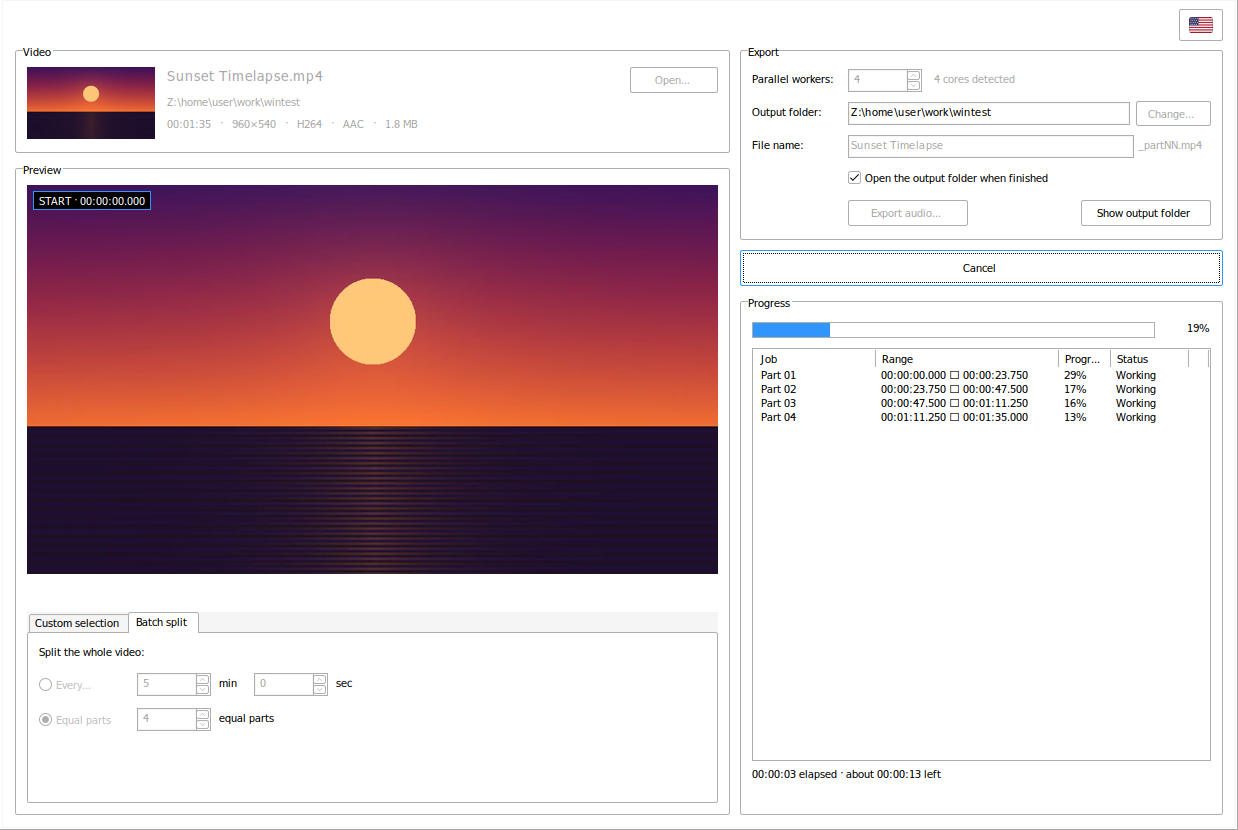
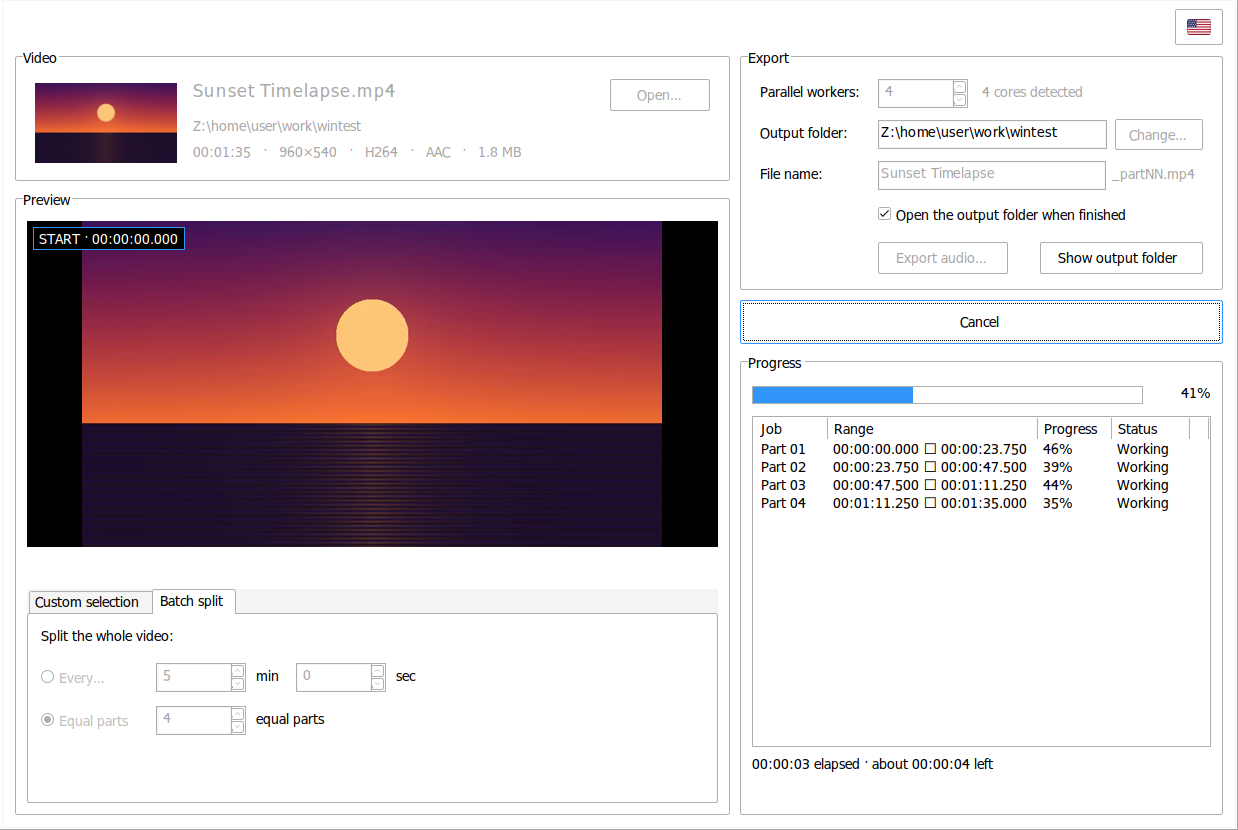
Windows: larger fonts, roomier Video/Export groups, plain range slider
- UI text is the system message font enlarged by 25%; row, button and
  caption heights grow to match
- 20 px inner side padding in the Video and Export group boxes
- Drop the blue selection band and blue clip-length label on the slider
- Rebalance the job list columns; refresh the Windows screenshots

Claude-Session: https://claude.ai/code/session_01Uap5cQj8DX7AT7JrzHpMSY

diff --git a/windows/src/main.rs b/windows/src/main.rs
@@ -147,8 +147,8 @@ fn main() {
             WS_OVERLAPPEDWINDOW,
             CW_USEDEFAULT,
             CW_USEDEFAULT,
-            (1120.0 * s) as i32,
-            (780.0 * s) as i32,
+            (1240.0 * s) as i32,
+            (900.0 * s) as i32,
             None,
             None,
             Some(hinst),
@@ -246,11 +246,16 @@ fn button(p: HWND, id: usize, style: i32) -> HWND {
     ctl(p, w!("BUTTON"), "", WS_TABSTOP.0 | style as u32, NONE, id)
 }
 
+/// How much larger than the system message font the UI text is.
+const FONT_SCALE: f32 = 1.25;
+
 fn make_fonts(dpi: u32) -> (HFONT, HFONT) {
     unsafe {
         let mut ncm = NONCLIENTMETRICSW { cbSize: std::mem::size_of::<NONCLIENTMETRICSW>() as u32, ..Default::default() };
         let _ = SystemParametersInfoForDpi(SPI_GETNONCLIENTMETRICS.0, ncm.cbSize, Some(&mut ncm as *mut _ as _), 0, dpi);
+        // The system message font (Segoe UI 9 pt), enlarged for readability.
         let mut lf = ncm.lfMessageFont;
+        lf.lfHeight = (lf.lfHeight as f32 * FONT_SCALE).round() as i32;
         let font = CreateFontIndirectW(&lf);
         lf.lfWeight = 600;
         lf.lfHeight = (lf.lfHeight as f32 * 1.3).round() as i32;
@@ -544,54 +549,62 @@ pub fn layout(a: &mut App) {
     let (cw, ch) = (rc.right as f32 / s, rc.bottom as f32 / s);
     let tw = |t: &str| text_width(a, t) as f32 / s;
     let txt = |h: HWND| text_of(h);
-    const M: f32 = 12.0;
-    const G: f32 = 10.0;
-    const EH: f32 = 23.0; // edit / label row height
-    const BH: f32 = 26.0; // button height
+    const M: f32 = 12.0; // window margin
+    const G: f32 = 10.0; // gap between groups
+    const EH: f32 = 29.0; // edit / radio row height
+    const BH: f32 = 32.0; // button height
+    const LH: f32 = 22.0; // label height
+    const LO: f32 = (EH - LH) / 2.0; // label offset that centres it on an edit row
+    const CAP: f32 = 30.0; // group box caption → first row
+    const PAD: f32 = 12.0; // group box inner padding
+    const WIDE_PAD: f32 = 20.0; // inner side padding of the Video and Export groups
     let avail = cw - 2.0 * M;
-    let right_w = (avail * 0.4).clamp(380.0, 500.0);
+    let right_w = (avail * 0.4).clamp(420.0, 560.0);
     let left_w = avail - G - right_w;
     let (lx, rx) = (M, M + left_w + G);
 
     // ── Language flag, top right ──
-    place(u.lang_btn, cw - M - 44.0, 8.0, 44.0, 32.0, s);
-    let top = 8.0 + 32.0 + 4.0;
+    place(u.lang_btn, cw - M - 48.0, 8.0, 48.0, 36.0, s);
+    let top = 8.0 + 36.0 + 4.0;
 
     // ── Video ──
-    let vh = 108.0;
+    let vh = CAP + 88.0 + 14.0;
     place(u.video_grp, lx, top, left_w, vh, s);
-    place(u.thumb, lx + 12.0, top + 22.0, 128.0, 72.0, s);
-    let ow = tw(&txt(u.open_btn)) + 32.0;
-    place(u.open_btn, lx + left_w - 12.0 - ow.max(88.0), top + 22.0, ow.max(88.0), BH, s);
-    let tx = lx + 152.0;
-    let tww = left_w - 164.0 - ow.max(88.0) - 12.0;
-    place(u.drop_title, tx, top + 22.0, tww, 26.0, s);
-    place(u.drop_sub, tx, top + 50.0, tww + ow.max(88.0) + 12.0, 18.0, s);
-    place(u.drop_info, tx, top + 72.0, tww + ow.max(88.0) + 12.0, 18.0, s);
+    let vx = lx + WIDE_PAD;
+    let vw = left_w - 2.0 * WIDE_PAD;
+    let ty0 = top + CAP;
+    place(u.thumb, vx, ty0 + 4.0, 142.0, 80.0, s);
+    let ow = (tw(&txt(u.open_btn)) + 36.0).max(100.0);
+    place(u.open_btn, vx + vw - ow, ty0, ow, BH, s);
+    let tx = vx + 142.0 + 16.0;
+    let full = vx + vw - tx;
+    place(u.drop_title, tx, ty0, full - ow - 12.0, 32.0, s);
+    place(u.drop_sub, tx, ty0 + 38.0, full, LH, s);
+    place(u.drop_info, tx, ty0 + 64.0, full, LH, s);
 
     // ── Preview ──
     let py = top + vh + G;
     let ph = ch - M - py;
     place(u.preview_grp, lx, py, left_w, ph, s);
-    let ix = lx + 12.0;
-    let iw = left_w - 24.0;
-    let itop = py + 22.0;
-    let ibot = py + ph - 12.0;
-    let tab_h = 172.0;
-    let frame_h = (iw * 9.0 / 16.0).min(ibot - itop - 30.0 - G - tab_h).max(120.0);
+    let ix = lx + PAD;
+    let iw = left_w - 2.0 * PAD;
+    let itop = py + CAP;
+    let ibot = py + ph - PAD;
+    let tab_h = 214.0;
+    let frame_h = (iw * 9.0 / 16.0).min(ibot - itop - 32.0 - G - tab_h).max(120.0);
     place(u.preview, ix, itop, iw, frame_h, s);
     let fy = itop + frame_h + 6.0;
-    let sw = tw(&txt(u.show_start)) + 26.0;
-    let ew = tw(&txt(u.show_end)) + 26.0;
-    place(u.show_end, ix + iw - ew, fy, ew, 22.0, s);
-    place(u.show_start, ix + iw - ew - 8.0 - sw, fy, sw, 22.0, s);
-    place(u.frame_lbl, ix, fy + 3.0, (iw - ew - sw - 16.0).max(10.0), 18.0, s);
+    let sw = tw(&txt(u.show_start)) + 30.0;
+    let ew = tw(&txt(u.show_end)) + 30.0;
+    place(u.show_end, ix + iw - ew, fy, ew, 26.0, s);
+    place(u.show_start, ix + iw - ew - 10.0 - sw, fy, sw, 26.0, s);
+    place(u.frame_lbl, ix, fy + 2.0, (iw - ew - sw - 20.0).max(10.0), LH, s);
     let custom = a.mode == Mode::Custom;
     for h in [u.frame_lbl, u.show_start, u.show_end] {
         show(h, custom);
     }
-    let ty = fy + 22.0 + G;
-    let th = (ibot - ty).max(140.0);
+    let ty = fy + 26.0 + G;
+    let th = (ibot - ty).max(170.0);
     place(u.tab, ix, ty, iw, th, s);
     // The tab's page area.
     let mut page = RECT {
@@ -604,35 +617,36 @@ pub fn layout(a: &mut App) {
         SendMessageW(u.tab, TCM_SETCURSEL, Some(WPARAM(if custom { 0 } else { 1 })), None);
         SendMessageW(u.tab, TCM_ADJUSTRECT, Some(WPARAM(0)), Some(LPARAM(&mut page as *mut _ as isize)));
     }
-    let (px, pyy, pw) = (page.left as f32 / s + 8.0, page.top as f32 / s + 8.0, (page.right - page.left) as f32 / s - 16.0);
+    let (px, pyy, pw) = (page.left as f32 / s + 10.0, page.top as f32 / s + 8.0, (page.right - page.left) as f32 / s - 20.0);
     // custom page
-    place(u.timeline, px, pyy, pw, 62.0, s);
-    let ly = pyy + 62.0 + 8.0;
-    let tcol = 140.0f32.max(tw(&txt(u.start_lbl)) + 4.0).max(tw(&txt(u.end_lbl)) + 4.0);
-    place(u.start_lbl, px, ly, tcol, 18.0, s);
-    place(u.edits[E_START], px, ly + 20.0, 130.0, EH, s);
-    place(u.end_lbl, px + tcol + 16.0, ly, tcol, 18.0, s);
-    place(u.edits[E_END], px + tcol + 16.0, ly + 20.0, 130.0, EH, s);
+    place(u.timeline, px, pyy, pw, 70.0, s);
+    let ly = pyy + 70.0 + 8.0;
+    let time_w: f32 = 170.0;
+    let tcol = time_w.max(tw(&txt(u.start_lbl)) + 4.0).max(tw(&txt(u.end_lbl)) + 4.0);
+    place(u.start_lbl, px, ly, tcol, LH, s);
+    place(u.edits[E_START], px, ly + LH + 4.0, time_w, EH, s);
+    place(u.end_lbl, px + tcol + 20.0, ly, tcol, LH, s);
+    place(u.edits[E_END], px + tcol + 20.0, ly + LH + 4.0, time_w, EH, s);
     for h in [u.timeline, u.start_lbl, u.end_lbl, u.edits[E_START], u.edits[E_END]] {
         show(h, custom);
     }
     // batch page
-    place(u.batch_head, px, pyy + 4.0, pw, 18.0, s);
-    let rw = (tw(&txt(u.every_radio)).max(tw(&txt(u.parts_radio))) + 28.0).max(90.0);
-    let r1 = pyy + 32.0;
-    let r2 = r1 + EH + 12.0;
+    place(u.batch_head, px, pyy + 4.0, pw, LH, s);
+    let rw = (tw(&txt(u.every_radio)).max(tw(&txt(u.parts_radio))) + 32.0).max(100.0);
+    let r1 = pyy + LH + 18.0;
+    let r2 = r1 + EH + 14.0;
     place(u.every_radio, px, r1, rw, EH, s);
     place(u.parts_radio, px, r2, rw, EH, s);
-    let sx = px + rw + 8.0;
-    let spin_w = 76.0;
+    let sx = px + rw + 10.0;
+    let spin_w = 92.0;
     place(u.edits[E_MIN], sx, r1, spin_w, EH, s);
     let mw = tw(&txt(u.min_lbl)) + 4.0;
-    place(u.min_lbl, sx + spin_w + 6.0, r1 + 3.0, mw, 18.0, s);
-    let sx2 = sx + spin_w + 6.0 + mw + 12.0;
+    place(u.min_lbl, sx + spin_w + 8.0, r1 + LO, mw, LH, s);
+    let sx2 = sx + spin_w + 8.0 + mw + 14.0;
     place(u.edits[E_SEC], sx2, r1, spin_w, EH, s);
-    place(u.sec_lbl, sx2 + spin_w + 6.0, r1 + 3.0, tw(&txt(u.sec_lbl)) + 4.0, 18.0, s);
+    place(u.sec_lbl, sx2 + spin_w + 8.0, r1 + LO, tw(&txt(u.sec_lbl)) + 4.0, LH, s);
     place(u.edits[E_PARTS], sx, r2, spin_w, EH, s);
-    place(u.parts_lbl, sx + spin_w + 6.0, r2 + 3.0, tw(&txt(u.parts_lbl)) + 4.0, 18.0, s);
+    place(u.parts_lbl, sx + spin_w + 8.0, r2 + LO, tw(&txt(u.parts_lbl)) + 4.0, LH, s);
     for h in [u.batch_head, u.every_radio, u.parts_radio, u.min_lbl, u.sec_lbl, u.parts_lbl, u.edits[E_MIN], u.edits[E_SEC], u.edits[E_PARTS]] {
         show(h, !custom);
     }
@@ -642,33 +656,33 @@ pub fn layout(a: &mut App) {
 
     // ── Export ──
     let ey = top;
-    let gx = rx + 12.0;
-    let gw = right_w - 24.0;
-    let lw = [u.workers_lbl, u.out_lbl, u.name_lbl].iter().map(|h| tw(&txt(*h))).fold(0.0, f32::max) + 10.0;
+    let gx = rx + WIDE_PAD;
+    let gw = right_w - 2.0 * WIDE_PAD;
+    let lw = [u.workers_lbl, u.out_lbl, u.name_lbl].iter().map(|h| tw(&txt(*h))).fold(0.0, f32::max) + 12.0;
     let fx = gx + lw;
     let fw = gw - lw;
-    let mut y = ey + 24.0;
-    place(u.workers_lbl, gx, y + 3.0, lw, 18.0, s);
+    let mut y = ey + CAP;
+    place(u.workers_lbl, gx, y + LO, lw, LH, s);
     place(u.edits[E_WORKERS], fx, y, spin_w, EH, s);
-    place(u.cores_lbl, fx + spin_w + 10.0, y + 3.0, fw - spin_w - 10.0, 18.0, s);
-    y += EH + 10.0;
-    let cbw = tw(&txt(u.out_btn)) + 24.0;
-    place(u.out_lbl, gx, y + 3.0, lw, 18.0, s);
-    place(u.out_edit, fx, y, fw - cbw - 6.0, EH, s);
-    place(u.out_btn, fx + fw - cbw, y - 1.0, cbw, BH - 1.0, s);
-    y += EH + 10.0;
+    place(u.cores_lbl, fx + spin_w + 12.0, y + LO, fw - spin_w - 12.0, LH, s);
+    y += EH + 12.0;
+    let cbw = tw(&txt(u.out_btn)) + 28.0;
+    place(u.out_lbl, gx, y + LO, lw, LH, s);
+    place(u.out_edit, fx, y, fw - cbw - 8.0, EH, s);
+    place(u.out_btn, fx + fw - cbw, y - 1.0, cbw, EH + 2.0, s);
+    y += EH + 12.0;
     let xw = tw(&txt(u.ext_lbl)) + 6.0;
-    place(u.name_lbl, gx, y + 3.0, lw, 18.0, s);
-    place(u.edits[E_NAME], fx, y, fw - xw - 4.0, EH, s);
-    place(u.ext_lbl, fx + fw - xw, y + 3.0, xw, 18.0, s);
-    y += EH + 10.0;
-    place(u.open_check, fx, y, fw, 20.0, s);
-    y += 20.0 + 12.0;
-    let aw = tw(&txt(u.audio_btn)) + 32.0;
-    place(u.audio_btn, fx, y, aw.max(120.0), BH, s);
-    let dw = tw(&txt(u.dir_btn)) + 32.0;
+    place(u.name_lbl, gx, y + LO, lw, LH, s);
+    place(u.edits[E_NAME], fx, y, fw - xw - 6.0, EH, s);
+    place(u.ext_lbl, fx + fw - xw, y + LO, xw, LH, s);
+    y += EH + 12.0;
+    place(u.open_check, fx, y, fw, 26.0, s);
+    y += 26.0 + 14.0;
+    let aw = (tw(&txt(u.audio_btn)) + 36.0).max(130.0);
+    place(u.audio_btn, fx, y, aw, BH, s);
+    let dw = tw(&txt(u.dir_btn)) + 36.0;
     place(u.dir_btn, gx + gw - dw, y, dw, BH, s);
-    y += BH + 14.0;
+    y += BH + 16.0;
     place(u.export_grp, rx, ey, right_w, y - ey, s);
     // Up-down buddies follow their edits.
     for i in SPINS {
@@ -680,21 +694,25 @@ pub fn layout(a: &mut App) {
 
     // ── Main button ──
     let gy = y + G;
-    place(u.go_btn, rx, gy, right_w, 36.0, s);
+    let go_h = 44.0;
+    place(u.go_btn, rx, gy, right_w, go_h, s);
 
     // ── Progress ──
-    let pgy = gy + 36.0 + G;
+    let pgy = gy + go_h + G;
     let pgh = ch - M - pgy;
     place(u.progress_grp, rx, pgy, right_w, pgh, s);
-    place(u.bar, gx, pgy + 26.0, gw - 56.0, 16.0, s);
-    place(u.percent, gx + gw - 50.0, pgy + 25.0, 50.0, 18.0, s);
-    let st_h = 36.0;
-    let st_y = pgy + pgh - 12.0 - st_h;
-    place(u.status, gx, st_y, gw, st_h, s);
-    let ly = pgy + 26.0 + 16.0 + 10.0;
-    place(u.list, gx, ly, gw, (st_y - 6.0 - ly).max(40.0), s);
-    let lwp = ((gw - 4.0) * s) as i32 - unsafe { GetSystemMetrics(SM_CXVSCROLL) };
-    for (c, frac) in [(0, 0.28), (1, 0.42), (2, 0.12), (3, 0.18)] {
+    let qx = rx + PAD;
+    let qw = right_w - 2.0 * PAD;
+    let pct_w = 60.0;
+    place(u.bar, qx, pgy + CAP + 2.0, qw - pct_w - 8.0, 18.0, s);
+    place(u.percent, qx + qw - pct_w, pgy + CAP, pct_w, LH, s);
+    let st_h = 2.0 * LH + 4.0;
+    let st_y = pgy + pgh - PAD - st_h;
+    place(u.status, qx, st_y, qw, st_h, s);
+    let ly = pgy + CAP + 2.0 + 18.0 + 12.0;
+    place(u.list, qx, ly, qw, (st_y - 8.0 - ly).max(40.0), s);
+    let lwp = ((qw - 4.0) * s) as i32 - unsafe { GetSystemMetrics(SM_CXVSCROLL) };
+    for (c, frac) in [(0, 0.17), (1, 0.48), (2, 0.17), (3, 0.18)] {
         unsafe {
             SendMessageW(u.list, LVM_SETCOLUMNWIDTH, Some(WPARAM(c)), Some(LPARAM((lwp as f32 * frac) as isize)));
         }
@@ -1067,7 +1085,7 @@ extern "system" fn wndproc(hwnd: HWND, msg: u32, wp: WPARAM, lp: LPARAM) -> LRES
             WM_GETMINMAXINFO => {
                 let mmi = &mut *(lp.0 as *mut MINMAXINFO);
                 let s = GetDpiForWindow(hwnd) as f32 / 96.0;
-                mmi.ptMinTrackSize = POINT { x: (960.0 * s) as i32, y: (700.0 * s) as i32 };
+                mmi.ptMinTrackSize = POINT { x: (1080.0 * s) as i32, y: (800.0 * s) as i32 };
                 return LRESULT(0);
             }
             WM_DPICHANGED => {
@@ -1272,14 +1290,6 @@ fn handle_at(hwnd: HWND, a: &App, x: i32) -> Handle {
     }
 }
 
-fn blend(c: u32, with: u32, k: f32) -> u32 {
-    let ch = |sh: u32| -> u32 {
-        let (a, b) = (((c >> sh) & 0xff) as f32, ((with >> sh) & 0xff) as f32);
-        ((a * k + b * (1.0 - k)).round() as u32) << sh
-    };
-    ch(0) | ch(8) | ch(16)
-}
-
 fn paint_timeline(hwnd: HWND, dc: HDC, rc: RECT, a: &App) {
     unsafe {
         let _ = FillRect(dc, &rc, GetSysColorBrush(COLOR_WINDOW));
@@ -1289,15 +1299,6 @@ fn paint_timeline(hwnd: HWND, dc: HDC, rc: RECT, a: &App) {
         let (x0, x1) = (g.x0 as i32, (g.x0 + g.w) as i32);
         let s = a.scale;
 
-        // Selected range: a highlight band behind the track.
-        if a.info.is_some() {
-            let (xs, xe) = (t_to_x(&g, a, a.start), t_to_x(&g, a, a.end));
-            let band = RECT { left: xs, top: g.cy - (7.0 * s) as i32, right: xe.max(xs + 1), bottom: g.cy + (7.0 * s) as i32 };
-            let hl = GetSysColor(COLOR_HIGHLIGHT);
-            let br = CreateSolidBrush(COLORREF(blend(hl, GetSysColor(COLOR_WINDOW), if enabled { 0.35 } else { 0.15 })));
-            let _ = FillRect(dc, &band, br);
-            let _ = DeleteObject(HGDIOBJ(br.0));
-        }
         // Track
         let track = RECT { left: x0, top: g.cy - (2.0 * s) as i32, right: x1, bottom: g.cy + (2.0 * s) as i32 };
         if !theme.is_invalid() {
@@ -1349,13 +1350,13 @@ fn paint_timeline(hwnd: HWND, dc: HDC, rc: RECT, a: &App) {
         let old = SelectObject(dc, HGDIOBJ(a.font.0));
         SetBkMode(dc, TRANSPARENT);
         SetTextColor(dc, COLORREF(GetSysColor(COLOR_GRAYTEXT)));
-        let ly = g.cy + (19.0 * s) as i32;
-        let mut r = RECT { left: (2.0 * s) as i32, top: ly, right: rc.right - (8.0 * s) as i32, bottom: rc.bottom };
+        let ly = g.cy + (20.0 * s) as i32;
+        let mut r = RECT { left: (2.0 * s) as i32, top: ly, right: rc.right - (14.0 * s) as i32, bottom: rc.bottom };
         let dur = a.info.as_ref().map(|i| i.duration).unwrap_or(0.0);
         draw_text(dc, "00:00:00", &mut r.clone(), DT_LEFT | DT_SINGLELINE);
         draw_text(dc, &splitter::fmt_time(dur), &mut r.clone(), DT_RIGHT | DT_SINGLELINE);
         if a.info.is_some() {
-            SetTextColor(dc, COLORREF(GetSysColor(COLOR_HIGHLIGHT)));
+            SetTextColor(dc, COLORREF(GetSysColor(COLOR_WINDOWTEXT)));
             draw_text(dc, &splitter::fmt_time(a.end - a.start), &mut r, DT_CENTER | DT_SINGLELINE);
         }
         SelectObject(dc, old);
